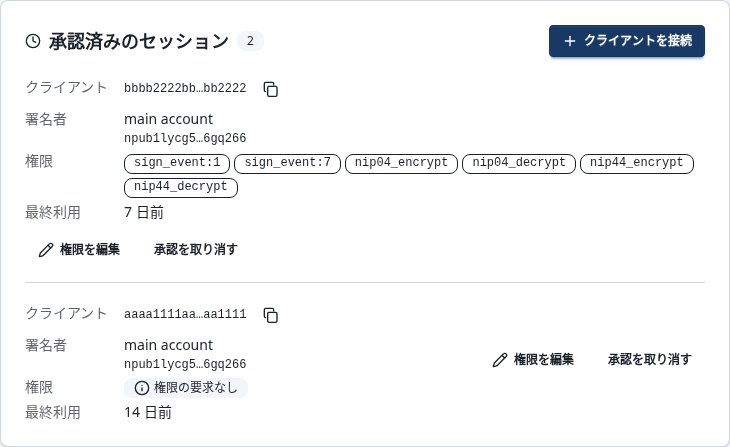
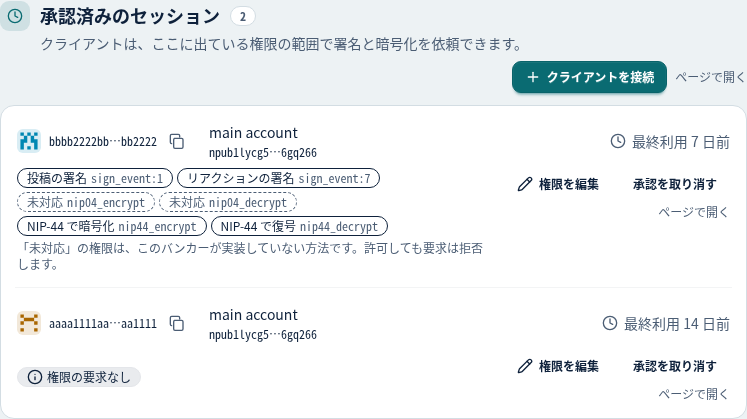
docs: 使い方の画像を新しいダッシュボードで撮り直し、撮影でダイアログを開けるようにする (#647)
Claude-Session: https://claude.ai/code/session_012o5GMDcQGz5ydeiHabntkz

diff --git a/docs/admin-ui.md b/docs/admin-ui.md
@@ -15,7 +15,7 @@
 
 ダッシュボードのアカウントの追加と、リレーの追加、用途の編集、削除と、アカウントのラベルの編集、秘密鍵の表示、secret の再生成、削除、読み込めなかったアカウントの削除は、ページを移らずにダイアログで開く。ダイアログのフォームは同じ操作の画面のフォームと同じ宛先へ POST し、送信の後は画面のフォームから送ったときと同じ結果になる（入力の誤りはその操作の画面に理由付きで出る。下の「変更の結果」、「リレーの追加」、「リレーの用途の編集と削除」の表）。ダイアログは「キャンセル」（`Cancel`）のボタンか Esc キーで閉じ、閉じても何も送らない。開いたときは「キャンセル」にフォーカスが当たる。ダイアログは JS を使わず `commandfor` の属性で開くので、これに対応しないブラウザーのために、ボタンの並びの末尾に操作の画面を開く「ページで開く」（`Open as a page`）のリンクを置く（リレーの行では用途の編集の画面で、そこから削除の画面へも進める。アカウントの行ではラベルの編集の画面で、その下のリンクからほかの操作の画面へも進める。読み込めなかったアカウントの行では削除の確認の画面である）。承認待ちがあってダッシュボードを 30 秒ごとに読み込み直しているときは、開いているダイアログも読み込み直しで閉じ、入力は消える。そのときは「ページで開く」の画面を使う。アカウントの追加のダイアログには「既存の秘密鍵を登録」（`Import a private key`）と「新しい秘密鍵を生成」（`Generate a new key`）のタブが並び、開いたときは登録のタブを選んでいる。タブも JS を使わずに切り替わり、「生成する」（`Generate`）は登録画面と同じく生成した鍵の確認の画面へ移る（ラベルはその画面で入れる）。セッションの節の「クライアントを接続」（`Connect a client`）と、行ごとの「権限を編集」（`Edit permissions`）と「承認を取り消す」（`Revoke`）も、ダイアログで開く。セッションの行の「ページで開く」は、ボタンの並びの下の行に置き、権限の編集の画面を開く。承認の取り消しには画面が無く、確認のダイアログでだけ行う。
 
-画面は日本語と英語で表示する。ナビゲーションバーの右端の切り替えで選んだ言語は cookie（`nostr_no_su_language`、365 日）に保存し、ページをまたいで保つ。言語の切り替えは、ブラウザーの設定（地球のアイコン）、English、日本語のボタンを 1 つの枠に並べ、表示している言語のボタンを押した状態で示す。「ブラウザーの設定」を押すと cookie を消し、ブラウザーの `Accept-Language` の言語、どちらでもなければ英語で表示する。テーマはナビゲーションバーの右端で、ブラウザーの設定（モニター）、ライト（太陽）、ダーク（月）のアイコンのボタンから選び、今のテーマのボタンを押した状態で示す。アイコンだけのボタンの名前は、読み上げとマウスを重ねたときの表示に出す。ライトとダークはどちらも自前の配色で、daisyUI の組み込みのテーマは使わない。どちらのテーマも、文字と地の組み合わせは WCAG 2 の AA のコントラスト比（本文と状態色の文字は 4.5:1、入力とボタンの枠は 3:1）を満たす。文字は OS のフォント（本文はヒラギノ角ゴシック、Noto Sans CJK JP、Yu Gothic UI、メイリオなど、等幅は ui-monospace、SF Mono、Cascadia Mono など）で表示し、Web フォントは読み込まない。上部バーとタブのロゴは、テーマに関係なく同じ色の図形を白い丸い板に載せたもので、README の先頭のロゴと同じ絵である。ライトとダークは cookie（`nostr_no_su_theme`、365 日）に保存し、ブラウザーの設定では cookie を消す。秘密鍵を表示するページ（生成した鍵の確認、登録の完了、秘密鍵の表示）には、押すと表示を失うのでテーマと言語のどちらの切り替えも置かない。Origin と Host が一致しない要求への 400 のページにも、切り替えの POST が同じ不一致で同じ 400 になるので置かない。クライアントの接続の確認の画面にも、GET で開き直せず、切り替えると貼った URI を失うので置かない。バンカー、アカウントストア、設定、プラグインから届く理由は英語のまま表示する。プラグインのページのフォームの送信が拒否された、または呼び出しに失敗したときの本文もプラグイン由来の英語のままである。ただし、アカウントの変更とリレーの変更、クライアントの接続、承認・拒否・取り消しで出る「変更を確認できませんでした」（`Change not confirmed`）のページの本文は訳す（プラグインの再有効化で出る同じページの本文は英語のままだが、やり直す前にダッシュボードで確かめるよう促す一文はどちらにも付く）。承認待ちの一覧に無いトークンの承認ページの 404 の本文も訳す。「読み込めなかったアカウント」の枠の理由も、`vault.RowError` の型で届くので訳す。アカウントの登録で公開鍵が登録済みのとき（「このアカウントはすでに登録されています。」（`account is already registered`））と、変更の対象のアカウントが登録されていないとき（一覧に無い署名者の 404 と同じ案内）の理由も、バンカーが型で返すので訳す。設定、DB、プラグインの理由は、ログにも同じ文が出る。
+画面は日本語と英語で表示する。上部バーの右端の切り替えで選んだ言語は cookie（`nostr_no_su_language`、365 日）に保存し、ページをまたいで保つ。言語の切り替えは、ブラウザーの設定（地球のアイコン）、English、日本語のボタンを 1 つの枠に並べ、表示している言語のボタンを押した状態で示す。「ブラウザーの設定」を押すと cookie を消し、ブラウザーの `Accept-Language` の言語、どちらでもなければ英語で表示する。テーマは上部バーの右端で、ブラウザーの設定（モニター）、ライト（太陽）、ダーク（月）のアイコンのボタンから選び、今のテーマのボタンを押した状態で示す。アイコンだけのボタンの名前は、読み上げとマウスを重ねたときの表示に出す。ライトとダークはどちらも自前の配色で、daisyUI の組み込みのテーマは使わない。どちらのテーマも、文字と地の組み合わせは WCAG 2 の AA のコントラスト比（本文と状態色の文字は 4.5:1、入力とボタンの枠は 3:1）を満たす。文字は OS のフォント（本文はヒラギノ角ゴシック、Noto Sans CJK JP、Yu Gothic UI、メイリオなど、等幅は ui-monospace、SF Mono、Cascadia Mono など）で表示し、Web フォントは読み込まない。上部バーとタブのロゴは、テーマに関係なく同じ色の図形を白い丸い板に載せたもので、README の先頭のロゴと同じ絵である。ライトとダークは cookie（`nostr_no_su_theme`、365 日）に保存し、ブラウザーの設定では cookie を消す。秘密鍵を表示するページ（生成した鍵の確認、登録の完了、秘密鍵の表示）には、押すと表示を失うのでテーマと言語のどちらの切り替えも置かない。Origin と Host が一致しない要求への 400 のページにも、切り替えの POST が同じ不一致で同じ 400 になるので置かない。クライアントの接続の確認の画面にも、GET で開き直せず、切り替えると貼った URI を失うので置かない。バンカー、アカウントストア、設定、プラグインから届く理由は英語のまま表示する。プラグインのページのフォームの送信が拒否された、または呼び出しに失敗したときの本文もプラグイン由来の英語のままである。ただし、アカウントの変更とリレーの変更、クライアントの接続、承認・拒否・取り消しで出る「変更を確認できませんでした」（`Change not confirmed`）のページの本文は訳す（プラグインの再有効化で出る同じページの本文は英語のままだが、やり直す前にダッシュボードで確かめるよう促す一文はどちらにも付く）。承認待ちの一覧に無いトークンの承認ページの 404 の本文も訳す。「読み込めなかったアカウント」の枠の理由も、`vault.RowError` の型で届くので訳す。アカウントの登録で公開鍵が登録済みのとき（「このアカウントはすでに登録されています。」（`account is already registered`））と、変更の対象のアカウントが登録されていないとき（一覧に無い署名者の 404 と同じ案内）の理由も、バンカーが型で返すので訳す。設定、DB、プラグインの理由は、ログにも同じ文が出る。
 
 ## アカウントの操作
 

diff --git a/docs/development.md b/docs/development.md
@@ -66,7 +66,7 @@ npm run build:css  # assets/admin.css から priv/static/admin.css を作る
 sh dev/logo_wordmark.sh
 ```
 
-管理 UI の全ページを固定の状態で確かめるときは、撮影用のサーバーを起動して撮る。サーバーは `PREVIEW_PORT` から続く 4 つのポートで、通常の状態、アカウントの一覧を得られない状態、すべての一覧が空の状態、README に載せる画像のための失敗の状態を含まない状態を出す（ユーザー名は `admin`、パスワードは `preview-password`）。鍵は公開のテストベクター、secret はダミーの値である。サーバーは終了しないので、1 つの端末で起動したまま別の端末で撮る。初回は `npx playwright-core install chromium` で、`playwright-core` の版が使う chromium を入れる（ブラウザーが無いときのエラーが勧める `npx playwright install` は、別のパッケージとその版のブラウザーを入れるので、必要な版が入るとは限らない）:
+管理 UI の全ページを固定の状態で確かめるときは、撮影用のサーバーを起動して撮る。サーバーは `PREVIEW_PORT` から続く 5 つのポートで、通常の状態、アカウントの一覧を得られない状態、すべての一覧が空の状態、README に載せる画像のための失敗の状態を含まない状態、すべての一覧が空でバンカー用のリレーだけを登録した状態を出す（ユーザー名は `admin`、パスワードは `preview-password`）。鍵は公開のテストベクター、secret はダミーの値である。サーバーは終了しないので、1 つの端末で起動したまま別の端末で撮る。初回は `npx playwright-core install chromium` で、`playwright-core` の版が使う chromium を入れる（ブラウザーが無いときのエラーが勧める `npx playwright install` は、別のパッケージとその版のブラウザーを入れるので、必要な版が入るとは限らない）:
 
 ```sh
 PREVIEW_PORT=18461 gleam run -m admin_preview                          # 端末 1（終了しない）
